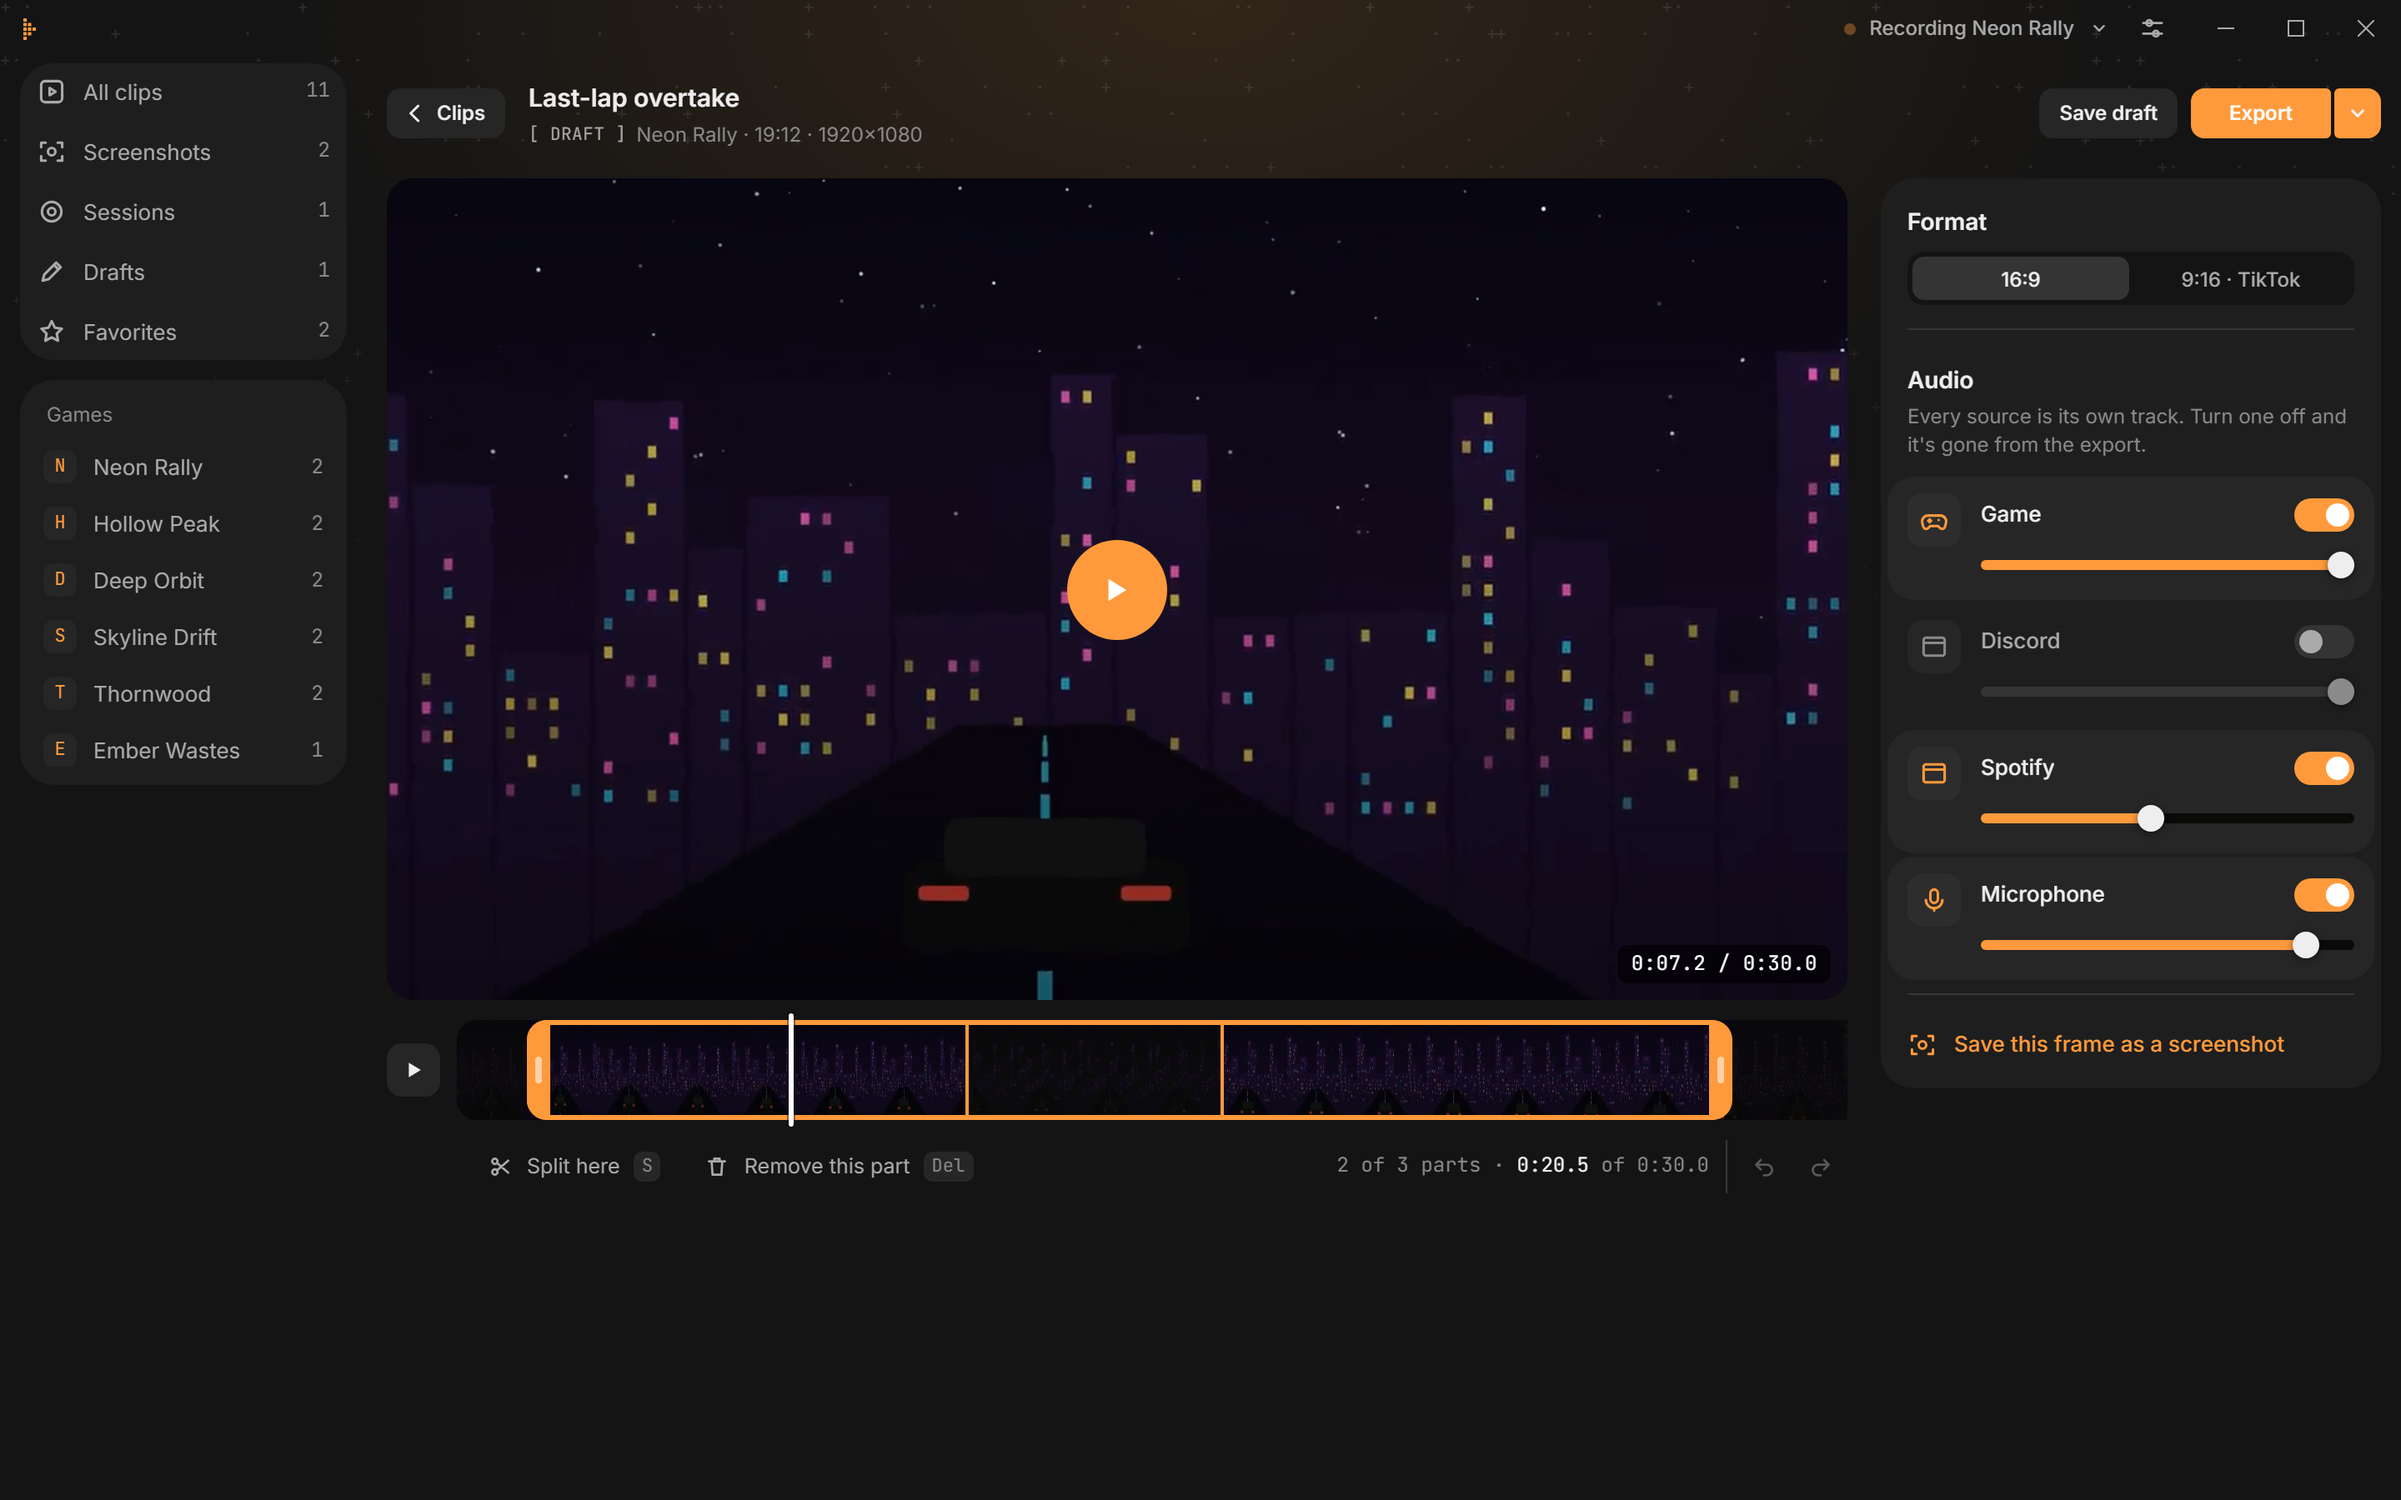
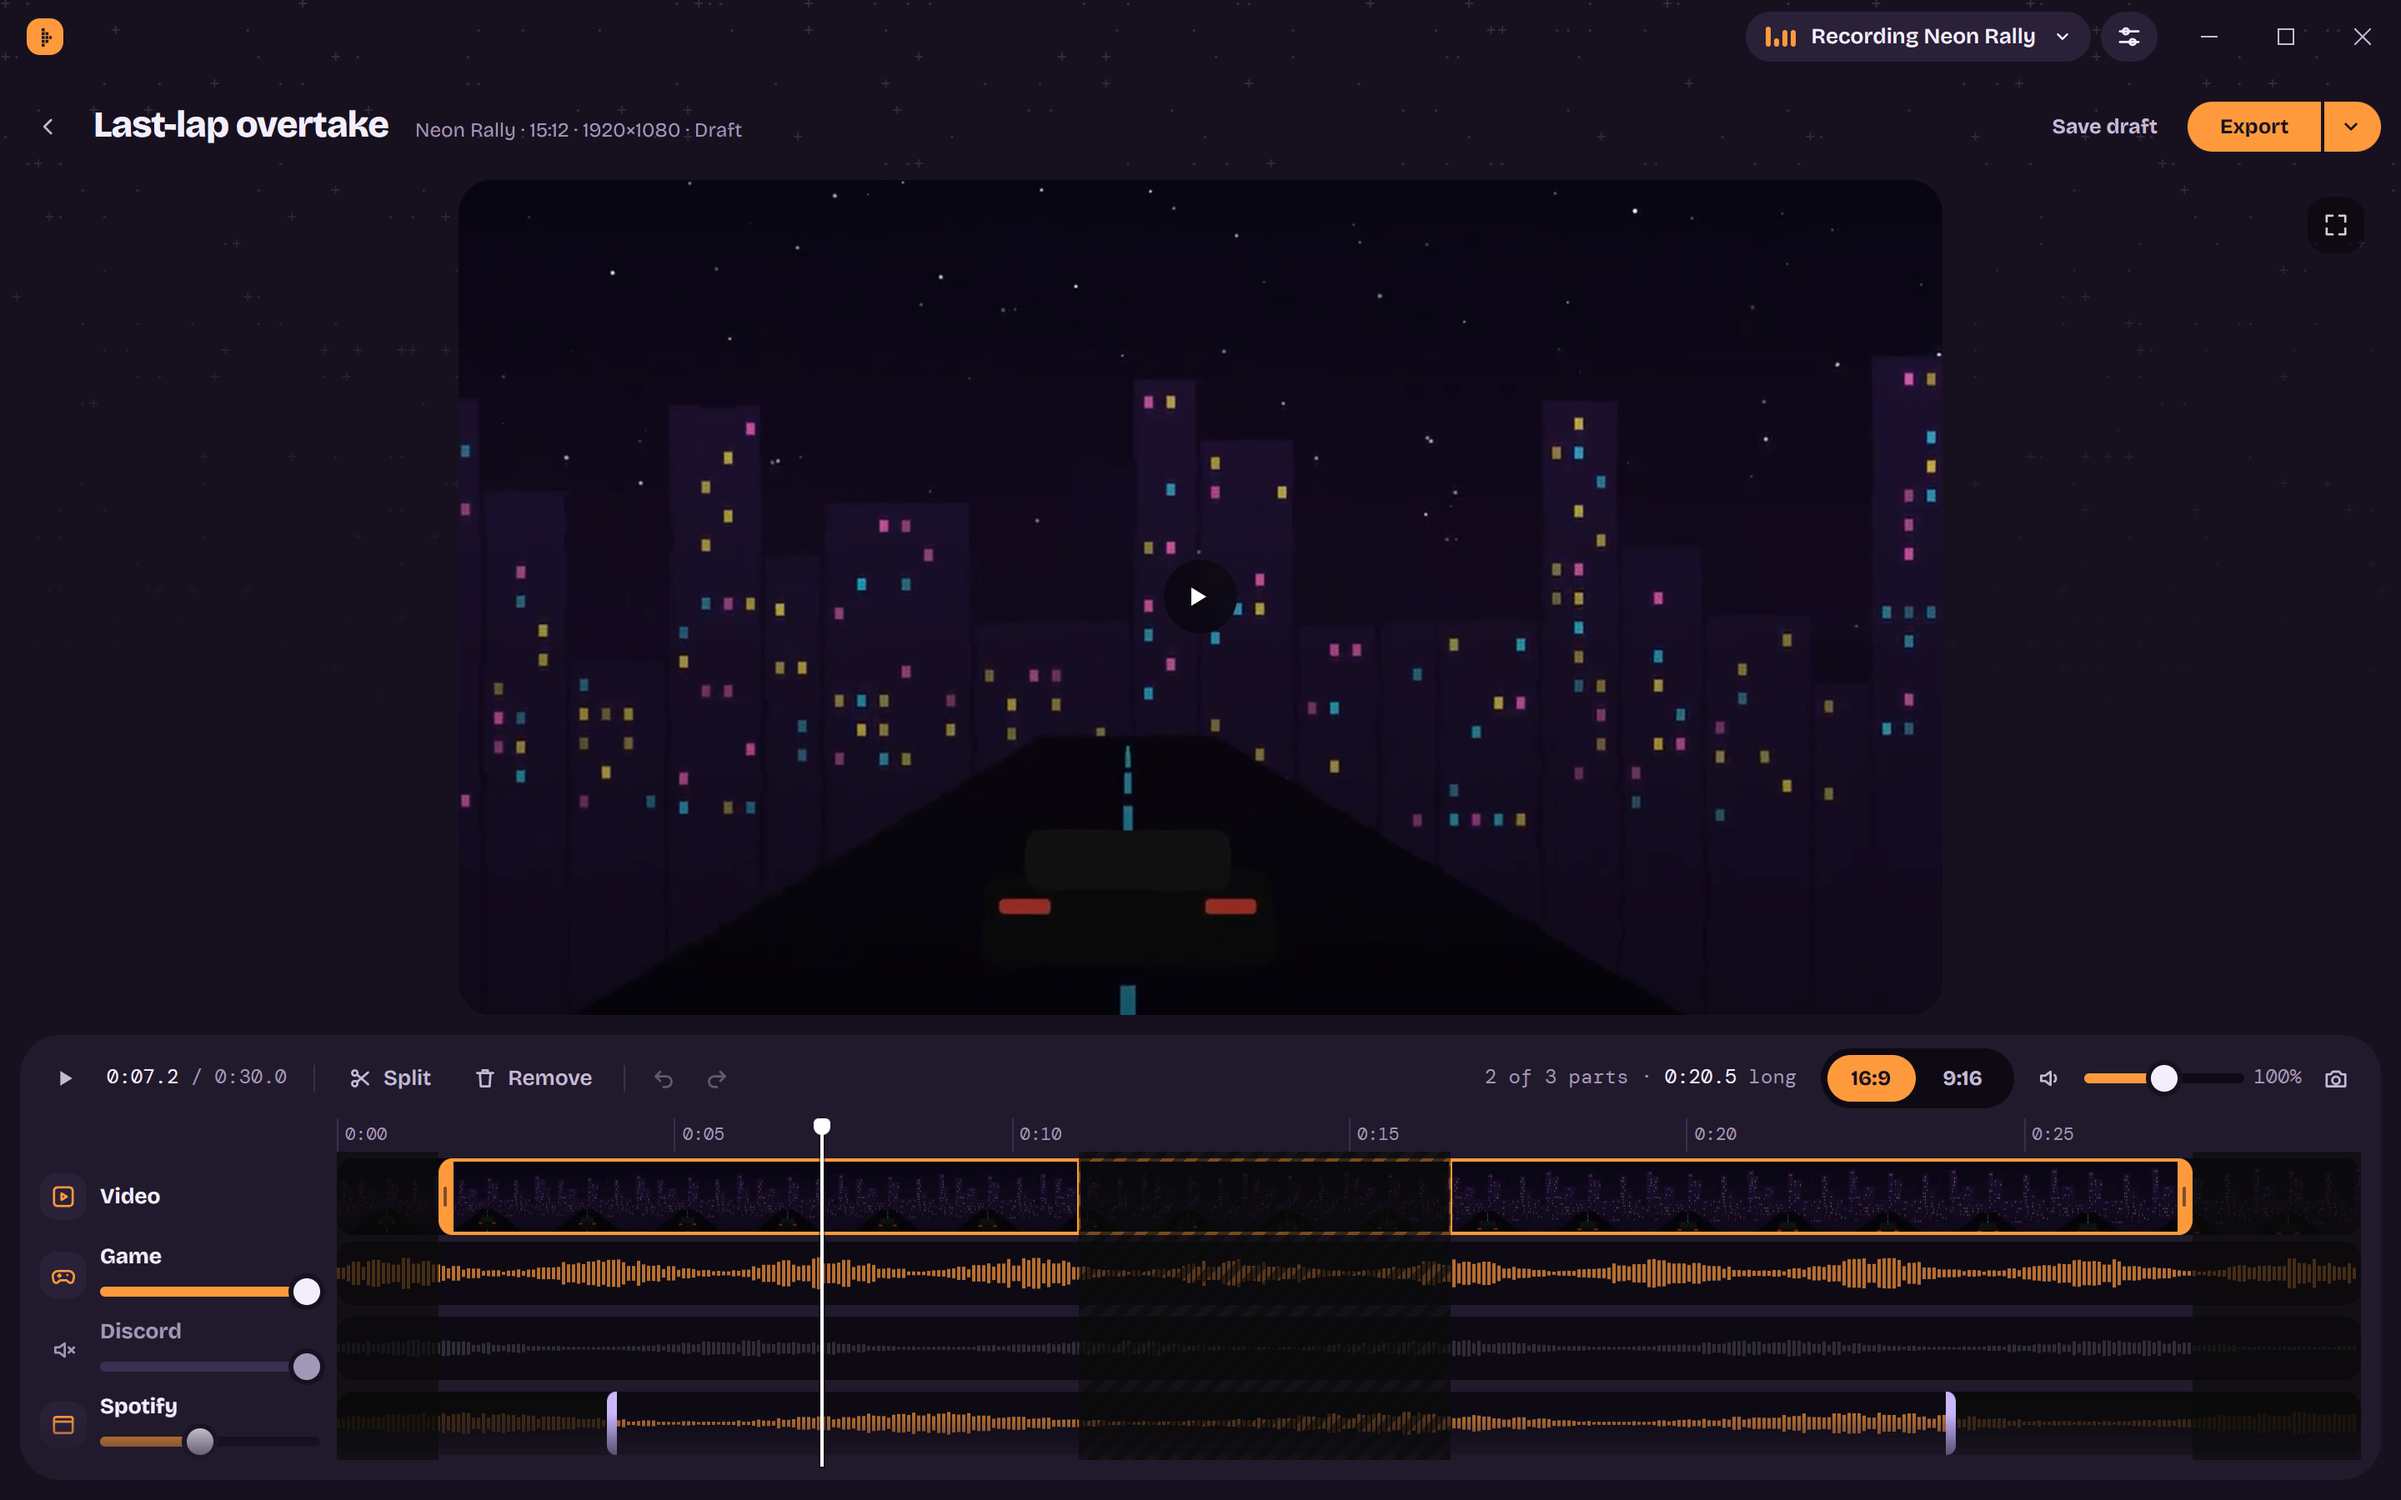
New product shots; releases are named by their version alone
- README shots show the current editor, settings and setup
- Releases are titled "v0.1.5" instead of "Replix v0.1.5"
- The editor's track list shows three whole tracks before it scrolls; the
  third was cut in half
- Clippy is clean again for CI

diff --git a/src/components/Editor.svelte b/src/components/Editor.svelte
@@ -1448,7 +1448,8 @@
     gap: 4px;
   }
   .audio-rows.many {
-    max-height: calc(var(--rows) * 42px - 4px);
+    /* A row is 41px tall, with 4px between rows. */
+    max-height: calc(var(--rows) * 45px - 4px);
     overflow-y: auto;
     overscroll-behavior: contain;
   }

diff --git a/src-tauri/src/win.rs b/src-tauri/src/win.rs
@@ -480,8 +480,8 @@ pub fn icon_rgba(path: &str, size: u32) -> Option<(u32, u32, Vec<u8>)> {
                 return None;
             }
             // BGRA to RGBA. Old icons have no alpha at all: then every pixel is solid.
-            let has_alpha = pixels.chunks_exact(4).any(|p| p[3] != 0);
-            for p in pixels.chunks_exact_mut(4) {
+            let has_alpha = pixels.as_chunks::<4>().0.iter().any(|p| p[3] != 0);
+            for p in pixels.as_chunks_mut::<4>().0 {
                 p.swap(0, 2);
                 if !has_alpha {
                     p[3] = 255;

diff --git a/src-tauri/src/editor.rs b/src-tauri/src/editor.rs
@@ -318,7 +318,8 @@ pub fn export(
 
     let gif = request.preset == Preset::Gif;
     // Each track with where it is heard, in seconds of the input (which begins at `start`).
-    let enabled: Vec<(usize, f32, Option<(f64, f64)>)> = if gif {
+    type Heard = (usize, f32, Option<(f64, f64)>);
+    let enabled: Vec<Heard> = if gif {
         Vec::new()
     } else {
         request

diff --git a/README.md b/README.md
@@ -22,11 +22,11 @@ Pick your microphone, check that it's picking you up, and let noise suppression 
 
 ## Edit in seconds
 
-Trim the start and end, split the clip and take out the parts you don't need. Turn tracks off or down, then export in full quality, small enough for Discord, or as a GIF. <kbd>Ctrl</kbd> + <kbd>Z</kbd> takes any step back.
+Trim the start and end, split the clip and take out the parts you don't need. Turn tracks off or down, let a track play for only part of the clip, or save one on its own as audio. Then export in full quality, small enough for Discord, or as a GIF. <kbd>Ctrl</kbd> + <kbd>Z</kbd> takes any step back.
 
-![Editor with a part cut out and four audio tracks](docs/images/editor.png)
+![Editor with a part cut out and its audio tracks](docs/images/editor.png)
 
-Switch to 9:16 for TikTok, Shorts and Reels, and drag the frame to where the action is.
+Switch to 9:16 for TikTok, Shorts and Reels, and drag the frame to where the action is. Pull a corner to zoom in.
 
 ![Editor in 9:16 with the frame over the car](docs/images/vertical.png)
 
@@ -52,7 +52,7 @@ Every game can have its own clip length, frame rate, quality and microphone sett
 | <kbd>Alt</kbd> + <kbd>S</kbd> | Screenshot |
 | <kbd>Alt</kbd> + <kbd>X</kbd> | Start or stop a session |
 
-All three can be changed in Settings. In the editor: <kbd>Space</kbd> plays, <kbd>S</kbd> splits, <kbd>Del</kbd> removes a part, <kbd>I</kbd> and <kbd>O</kbd> set the start and end.
+All three can be changed in Settings, which tells you right away if another program already uses a key. In the editor: <kbd>Space</kbd> plays, <kbd>S</kbd> splits, <kbd>Del</kbd> removes a part, <kbd>I</kbd> and <kbd>O</kbd> set the start and end.
 
 ## Your clips stay yours
 
